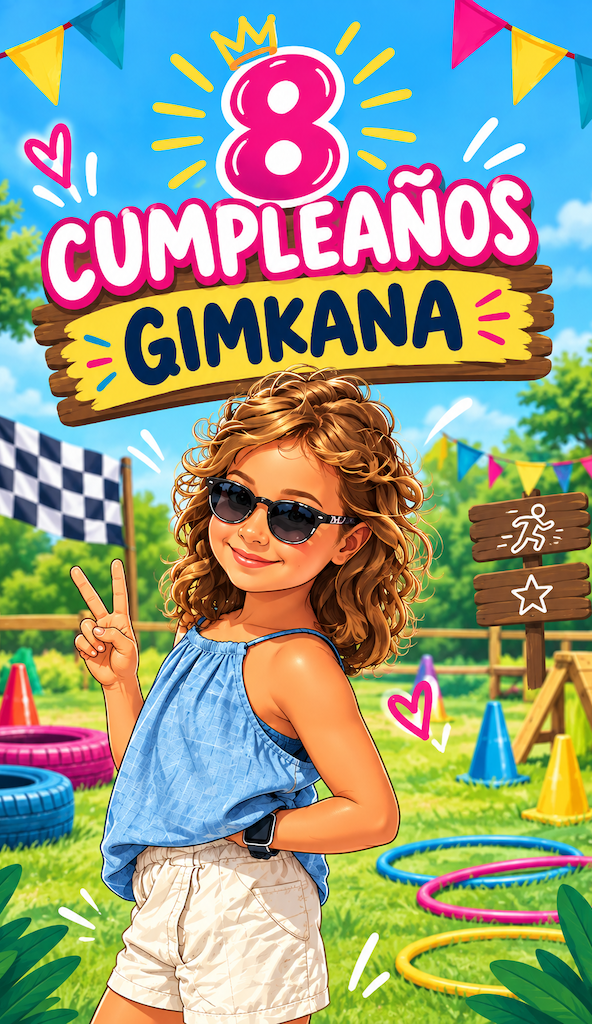
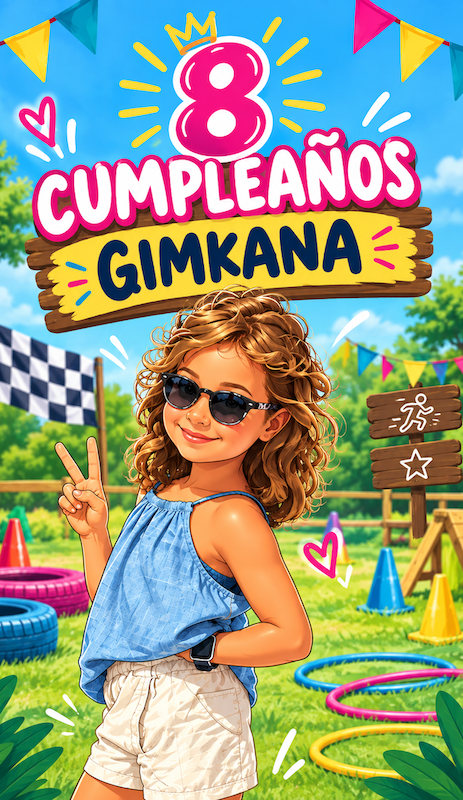
Add files via upload

diff --git a/index.html b/index.html
@@ -942,6 +942,11 @@ function prueba2() {
             ¿Cuántos secretos conseguiréis descubrir en esta construcción?
         </p>
 
+
+         <div id="p2word1" class="feedback ${completada ? 'ok' : ''}">
+            ${completada ? '🔓 Posición 1: <strong>NOS</strong>' : '🔒 Posición 1: Torres en el templo'}
+        </div>
+
         <div class="answer-row">
             <input id="p2obj1" class="field"
                 placeholder="Número"
@@ -950,8 +955,8 @@ function prueba2() {
             <span id="p2ok1">${completada ? '✅' : ''}</span>
         </div>
 
-        <div id="p2word1" class="feedback ${completada ? 'ok' : ''}">
-            ${completada ? '🔓 Posición 1: <strong>NOS</strong>' : '🔒 Posición 1: Torres en el templo'}
+       <div id="p2word2" class="feedback ${completada ? 'ok' : ''}">
+            ${completada ? '🔓 Posición 2: <strong>VEMOS</strong>' : '🔒 Posición 2: Accesos al templo'}
         </div>
 
 
@@ -963,8 +968,8 @@ function prueba2() {
             <span id="p2ok2">${completada ? '✅' : ''}</span>
         </div>
 
-        <div id="p2word2" class="feedback ${completada ? 'ok' : ''}">
-            ${completada ? '🔓 Posición 2: <strong>VEMOS</strong>' : '🔒 Posición 2: Accesos al templo'}
+        <div id="p2word3" class="feedback ${completada ? 'ok' : ''}">
+            ${completada ? '🔓 Posición 3: <strong>EN</strong>' : '🔒 Posición 3: Años que tardaron en construir'}
         </div>
 
 
@@ -976,8 +981,8 @@ function prueba2() {
             <span id="p2ok3">${completada ? '✅' : ''}</span>
         </div>
 
-        <div id="p2word3" class="feedback ${completada ? 'ok' : ''}">
-            ${completada ? '🔓 Posición 3: <strong>EN</strong>' : '🔒 Posición 3: Años que tardaron en construir'}
+        <div id="p2word4" class="feedback ${completada ? 'ok' : ''}">
+            ${completada ? '🔓 Posición 4: <strong>McDonald\'s</strong>' : '🔒 Posición 4: Rosetones'}
         </div>
 
 
@@ -989,11 +994,7 @@ function prueba2() {
             <span id="p2ok4">${completada ? '✅' : ''}</span>
         </div>
 
-        <div id="p2word4" class="feedback ${completada ? 'ok' : ''}">
-            ${completada ? '🔓 Posición 4: <strong>McDonald\'s</strong>' : '🔒 Posición 4: Rosetones'}
-        </div>
-
-
+        
         <hr>
 
         <h3>✨ Mensaje descubierto</h3>
@@ -1199,7 +1200,7 @@ function prueba4() {
         <h2>❤ EL CORAZÓN DE ARUCAS</h2>
 
         <p>
-            La cumpleañera de nuestra aventura tiene una letra muy especial.
+            La cumpleañera de nuestra aventura tiene una letra muy especial en su nombre.
         </p>
 
         <p>
@@ -1483,7 +1484,7 @@ function prueba7() {
         <p>
             Aquí van algunas pistas:
             <p>
-            🧩 Delande del edificio hay una plaza.<br>
+            🧩 Delante del edificio hay una plaza.<br>
                🧩 En la parte superior de la fachada hay unos números pero tu los verás como letras.<br>
                 🧩 Si miráis hacia lo alto encontraréis cinco banderas.<br>
                🧩 Cuando lo encuentres responde a las siguientes preguntas.
@@ -1593,82 +1594,94 @@ function prueba8() {
         <p>
             ${completada
                 ? '✅ Esta prueba ya está completada.'
-                : 'Por las calles de nuestra ciudad se esconden obras de arte que muchas veces pasan desapercibidas'
+                : 'Por las calles de nuestra ciudad se esconden obras de arte que muchas veces pasan desapercibidas.'
             }
         </p>
 
-        <p>Vuestra misión será seguir las instrucciones, encontrar las esculturas, observarlas con atención
-            y escribir el nombre de cada obra.
-            <p>
+        <p>
+            Vuestra misión será seguir las instrucciones, encontrar las esculturas,
+            observarlas con atención y escribir el nombre de cada obra.
+        </p>
+
+        <p>
             ¿Seréis capaces de encontrarlas todas?
-            
-            </p>
+        </p>
 
         <div class="answer-row">
             <div style="flex:1;">
-                <p>🔎 1: Situados a comienzo de la calle León y Castillo, en la plaza de la constitución
-                    vamos a caminar por ella hasta llegar a una bifurcación. Ahí encontrarás la primera escultura.</p>
+                <p>
+                    🔎 1: Situados a comienzo de la calle León y Castillo,
+                    en la plaza de la Constitución vamos a caminar por ella
+                    hasta llegar a una bifurcación. Ahí encontrarás la primera escultura.
+                </p>
+
                 <input id="obj8_1" class="field"
                     placeholder="Respuesta 1"
                     value="${completada ? 'respuesta1' : ''}"
                     ${completada ? 'disabled' : ''}>
             </div>
+
             <span id="ok8_1">${completada ? '✅' : ''}</span>
         </div>
 
         <div class="answer-row">
             <div style="flex:1;">
-                <p>🏰 2: Si seguimos recto llegamos a una plaza y un parque, busca y escribe el nombre de:</p><p>🗝 Un Busto</p>
+                <p>
+                    🏰 2: Si seguimos recto llegamos a una plaza y un parque,
+                    busca y escribe el nombre de:
+                </p>
+
+                <p>🗝 Un Busto</p>
+
                 <input id="obj8_2" class="field"
                     placeholder="Un Busto"
                     value="${completada ? 'respuesta2' : ''}"
                     ${completada ? 'disabled' : ''}>
             </div>
+
             <span id="ok8_2">${completada ? '✅' : ''}</span>
         </div>
 
         <div class="answer-row">
             <div style="flex:1;">
-                <p>⚱ Un monolito</p>
+                <p>🎨 Un Mural</p>
+
                 <input id="obj8_3" class="field"
-                    placeholder="Un Monolito"
+                    placeholder="Un Mural"
                     value="${completada ? 'respuesta3' : ''}"
                     ${completada ? 'disabled' : ''}>
             </div>
+
             <span id="ok8_3">${completada ? '✅' : ''}</span>
         </div>
 
         <div class="answer-row">
             <div style="flex:1;">
-                <p>🎨 Un Mural</p>
+                <p>🗿 Una Estatua</p>
+
                 <input id="obj8_4" class="field"
-                    placeholder="Un Mural"
+                    placeholder="Una Estatua"
                     value="${completada ? 'respuesta4' : ''}"
                     ${completada ? 'disabled' : ''}>
             </div>
+
             <span id="ok8_4">${completada ? '✅' : ''}</span>
         </div>
 
         <div class="answer-row">
             <div style="flex:1;">
-                <p>🗿 Una Estatua</p>
+                <p>
+                    🏴☠ 3: Además, hay un conjunto de esculturas de metal.
+                    ¿Cuántas hay?
+                </p>
+
                 <input id="obj8_5" class="field"
-                    placeholder="Una Estatua"
+                    placeholder="Respuesta 5"
                     value="${completada ? 'respuesta5' : ''}"
                     ${completada ? 'disabled' : ''}>
             </div>
-            <span id="ok8_5">${completada ? '✅' : ''}</span>
-        </div>
 
-        <div class="answer-row">
-            <div style="flex:1;">
-                <p>🏴☠ 3: Además, hay un conjunto de esculturas de metal. ¿Cuántas hay?</p>
-                <input id="obj8_6" class="field"
-                    placeholder="Respuesta 6"
-                    value="${completada ? 'respuesta6' : ''}"
-                    ${completada ? 'disabled' : ''}>
-            </div>
-            <span id="ok8_6">${completada ? '✅' : ''}</span>
+            <span id="ok8_5">${completada ? '✅' : ''}</span>
         </div>
 
         <div id="feedbackPrueba8"
@@ -1690,20 +1703,21 @@ function prueba8() {
     `;
 }
 
+
 function comprobarPrueba8() {
 
-   const answers = [
-    ["poeta domingo rivero", "domingo rivero", "poeta"],
-    ["pirata", "el pirata"],
-    ["arucas", "ciudad de arucas"],
-    ["ron", "ron canario", "ron de canarias"],
-    ["barco", "el barco"],
-    ["4", "cuatro"]
-];
+    const answers = [
+        ["poeta domingo rivero", "domingo rivero", "poeta","domingo"],
+        ["guillermo", "guillermo sureda", "guillermo sureda arbelo", "sureda"],
+        ["labrante", "reconocimiento","reconocimiento labrante","reconocimiento al labrante"],
+        ["garoe", "voluntariado", "homenaje voluntariado", "homenaje al voluntariado", "homenaje", "garoe homenaje al voluntariado"],
+        ["4", "cuatro","four"]
+    ];
 
     let correct = 0;
 
-    for (let i = 1; i <= 6; i++) {
+    // Ahora solo comprobamos 5 campos
+    for (let i = 1; i <= 5; i++) {
 
         const input = $('obj8_' + i);
         const feedback = $('ok8_' + i);
@@ -1714,10 +1728,10 @@ function comprobarPrueba8() {
         }
 
         if (
-    answers[i - 1].some(respuesta =>
-        norm(input.value) === norm(respuesta)
-    )
-) {
+            answers[i - 1].some(respuesta =>
+                norm(input.value) === norm(respuesta)
+            )
+        ) {
 
             input.style.borderColor = '#20a66b';
             input.style.background = '#effbf5';
@@ -1737,7 +1751,7 @@ function comprobarPrueba8() {
 
     const feedback = $('feedbackPrueba8');
 
-    if (correct === 6) {
+    if (correct === 5) {
 
         if (!state.completed.includes(7)) {
             state.completed.push(7);
@@ -1752,7 +1766,7 @@ function comprobarPrueba8() {
             <div style="text-align:center; padding:15px 0;">
                 <div style="font-size:45px;">🎉🏴☠🎉</div>
                 <h2>¡PRUEBA SUPERADA!</h2>
-                <p>¡Habéis resuelto las seis pistas!</p>
+                <p>¡Habéis resuelto las cinco pistas!</p>
             </div>
         `;
 
@@ -1761,7 +1775,7 @@ function comprobarPrueba8() {
     } else {
 
         feedback.innerHTML =
-            `<span class="bad">Os faltan ${6 - correct} respuestas correctas.</span>`;
+            `<span class="bad">Os faltan ${5 - correct} respuestas correctas.</span>`;
 
         feedback.className = 'feedback';
     }
